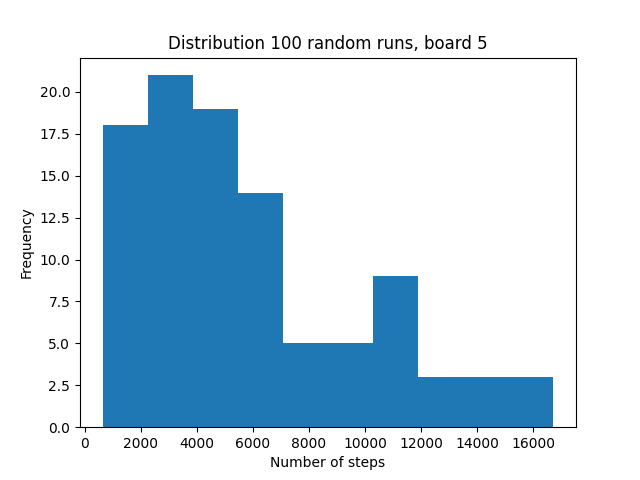
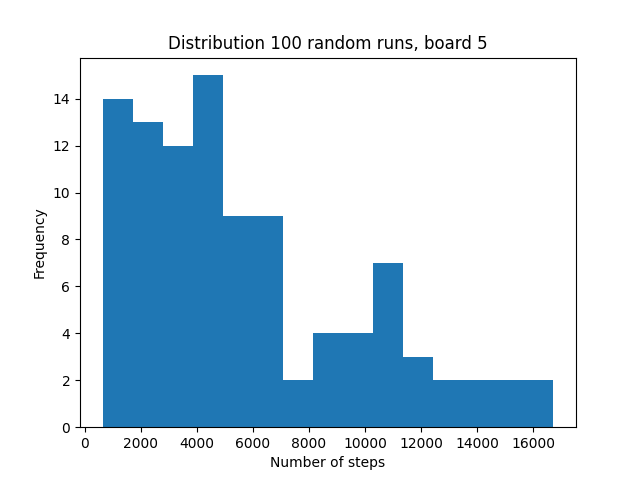
more bins

diff --git a/reproduce.py b/reproduce.py
@@ -61,7 +61,7 @@ Where board_number is the board for which you want to retrieve the results.
 """To create board.png's in distribution_random/histograms, uncomment the following and run python reproduce.py:"""
 # for board in range(1, 8):
 #     df = pd.read_csv(f'results/random_vs_compressed/board{board}.csv')
-#     plt.hist(df.iloc[:, 0])
+#     plt.hist(df.iloc[:, 0], bins=15)
 #     plt.xlabel('Number of steps')
 #     plt.ylabel('Frequency')
 #     plt.title(f'Distribution 100 random runs, board {board}')
